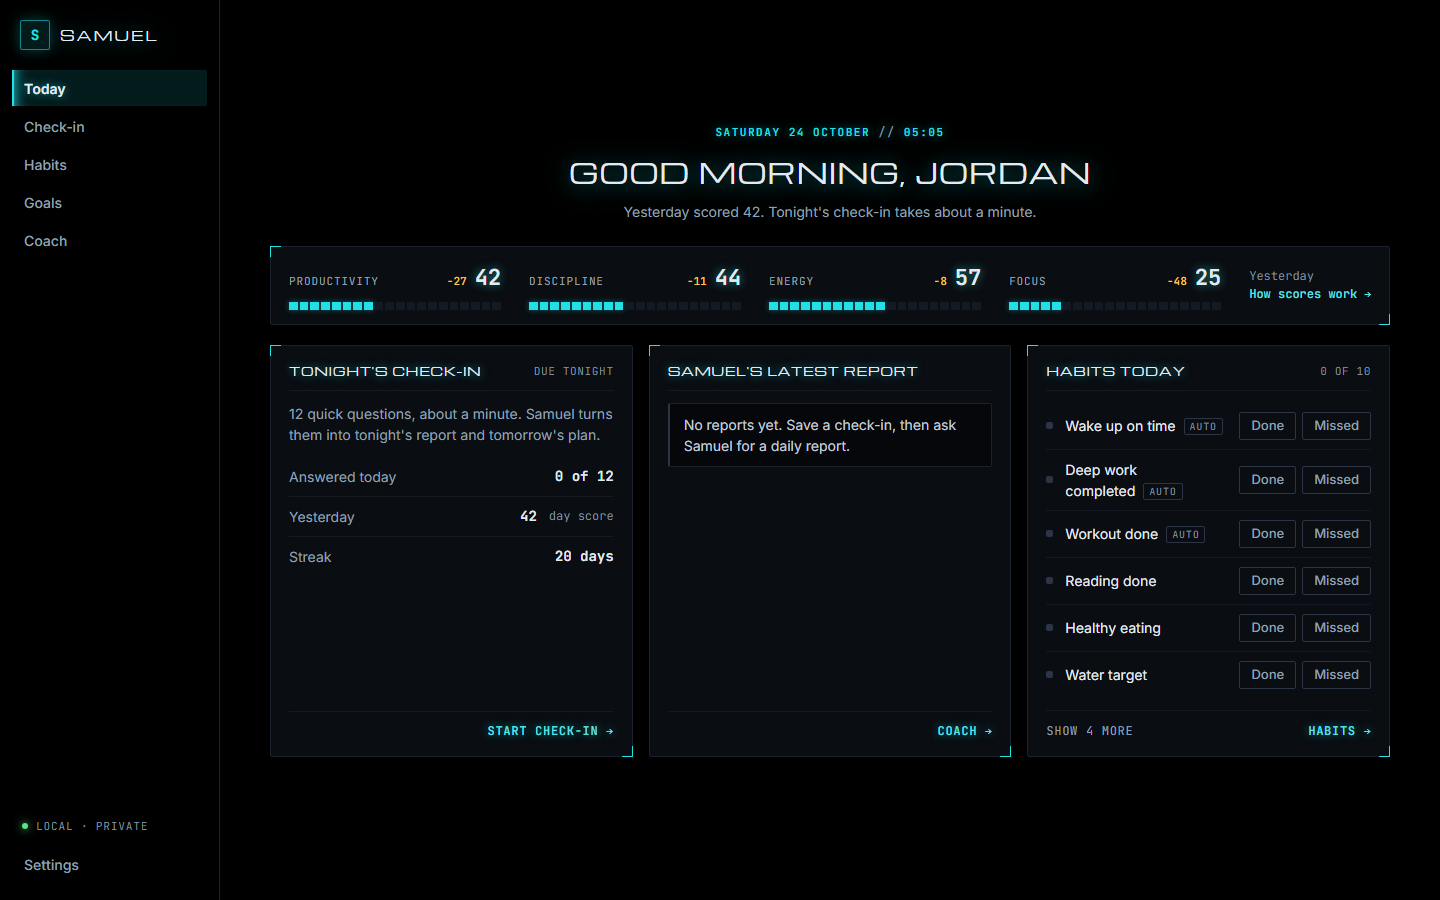
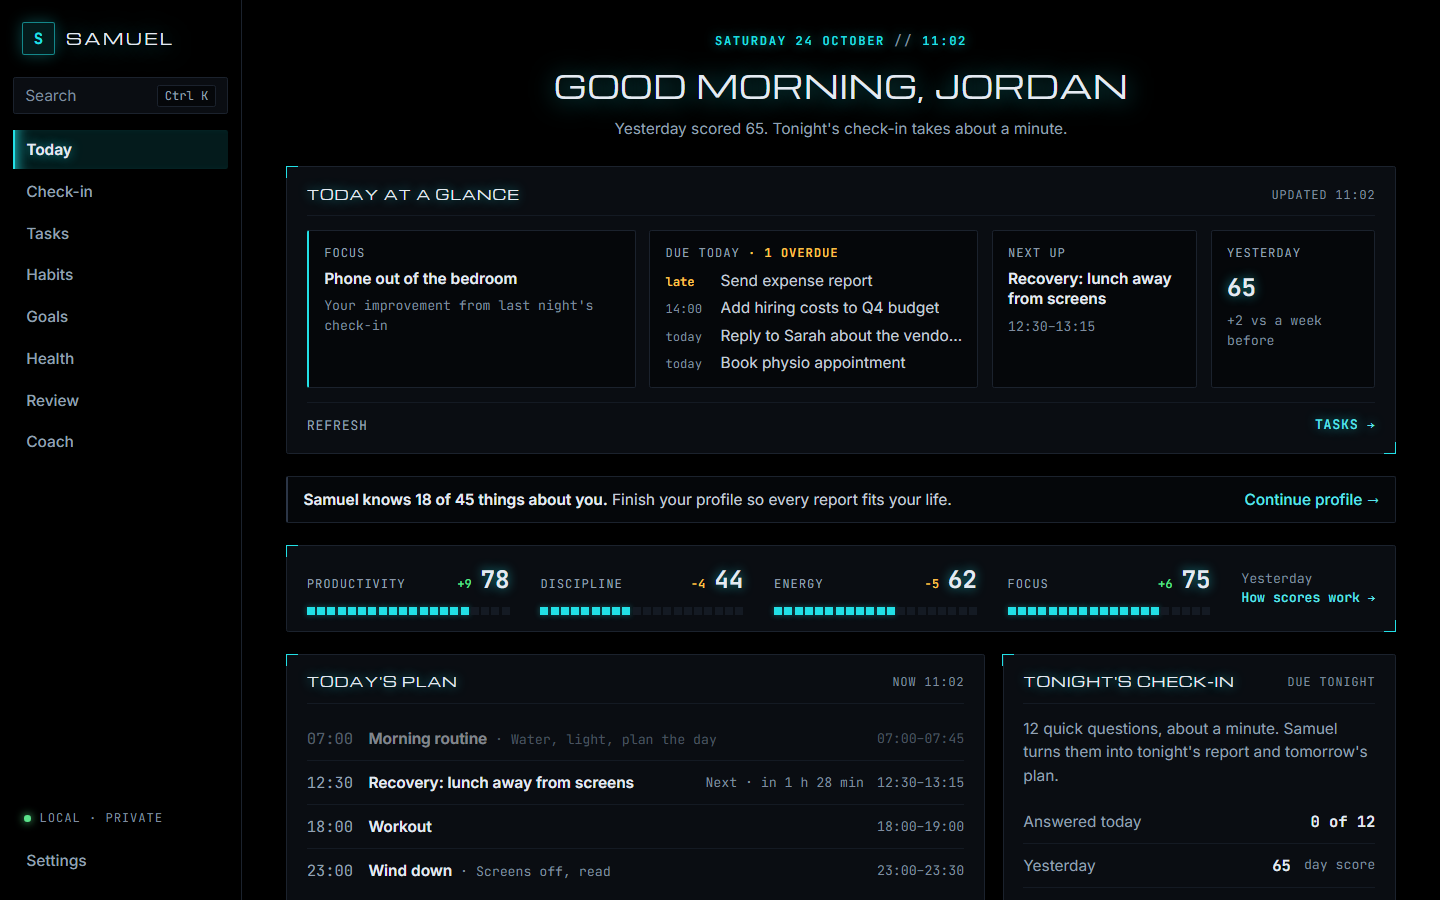
Update README for the v0.4 work and fix chat scrolling (#80)
* Scroll the chat thread, not the page

Opening a chat scrolled the whole page to the last message, shifting the
sidebar. Only the thread scrolls now.

* Update README status and screenshots for the v0.4 work

New screenshots of Home, Coach chat, Health and the weekly review, all
from the Jordan demo data on a temporary data folder.

---------

diff --git a/frontend/src/components/Chat.tsx b/frontend/src/components/Chat.tsx
@@ -171,10 +171,13 @@ export function ChatPanel({ installed, openId, onShowReports }: Props) {
 }
 
 function Thread({ chat }: { chat: Chat }) {
-  const end = useRef<HTMLDivElement>(null)
-  useEffect(() => { end.current?.scrollIntoView?.({ block: 'nearest' }) }, [chat.messages.length, chat.pending])
+  // Scroll the thread itself to the newest message, never the page.
+  const box = useRef<HTMLDivElement>(null)
+  useEffect(() => {
+    if (box.current) box.current.scrollTop = box.current.scrollHeight
+  }, [chat.messages.length, chat.pending])
   return (
-    <div className="chat-thread" aria-live="polite">
+    <div className="chat-thread" aria-live="polite" ref={box}>
       {chat.report_id != null && <div className="faint">About a report · Samuel can see it</div>}
       {chat.messages.map((m) => (
         <div key={m.id} className={`chat-msg ${m.role}`}>
@@ -183,7 +186,6 @@ function Thread({ chat }: { chat: Chat }) {
         </div>
       ))}
       {chat.pending && <Thinking />}
-      <div ref={end} />
     </div>
   )
 }

diff --git a/README.md b/README.md
@@ -6,11 +6,17 @@ Building a life dashboard using Claude Code.
 
 ## Status
 
-**v0.3.0.** Tell Samuel about your life in a 45-question profile, check in each evening, track 10 daily habits, keep a to-do list with reminders, set goals with milestones, follow today's plan from your routine, watch your sleep, energy, recovery and burnout risk, run weekly and monthly reviews, theme the app from any accent, and have Samuel (Claude Code) write your daily, weekly and monthly reports. It runs on a PC; phone access comes later. See [CHANGELOG.md](CHANGELOG.md) for what's in each release, [docs/PLAN.md](docs/PLAN.md) for the full build plan, [docs/scores.md](docs/scores.md) for how scores work, and [docs/adr/](docs/adr/) for the key decisions.
+**v0.3.0, plus the v0.4 work on `main`.** Chat with Samuel about your own data, see today at a glance, search everything with Ctrl+K, tap your energy through the day for an energy curve, find your time leaks and what moves your energy and mood, and undo deletes. Before that: tell Samuel about your life in a 45-question profile, check in each evening, track 10 daily habits, keep a to-do list with reminders, set goals with milestones, follow today's plan from your routine, watch your sleep, energy, recovery and burnout risk, run weekly and monthly reviews, theme the app from any accent, and have Samuel (Claude Code) write your daily, weekly and monthly reports. It runs on a PC; phone access comes later. See [CHANGELOG.md](CHANGELOG.md) for what's in each release, [docs/PLAN.md](docs/PLAN.md) for the full build plan, [docs/scores.md](docs/scores.md) for how scores work, and [docs/adr/](docs/adr/) for the key decisions.
 
 Screenshots use the made-up demo persona Jordan.
 
-![Home: greeting, score strip, tonight's check-in and today's habits](docs/screenshots/home.png)
+![Home: today at a glance (focus, due, next up, yesterday), the score strip and today's plan](docs/screenshots/home.png)
+
+![Coach: a chat with Samuel, answered from Jordan's own data](docs/screenshots/coach.png)
+
+![Health & energy: sleep and energy, recovery, burnout risk, what moves your energy and mood](docs/screenshots/health.png)
+
+![Weekly review: by the numbers, wins, slips and time leaks](docs/screenshots/review.png)
 
 ![Daily check-in with yesterday's summary](docs/screenshots/checkin.png)
 

diff --git a/docs/PLAN.md b/docs/PLAN.md
@@ -168,7 +168,7 @@ design/    canvas source (kept in sync)
 4. **v0.1 (core loop, released):** short onboarding, the full daily check-in, habits with auto-ticking and streaks, Home with the score strip, the Coach screen and daily reports, backups.
 5. **v0.2 (planning, released):** goals with milestones and the roadmap, the weekly review, routines for "Today's plan", and the full 45-question onboarding. Push notifications moved to the Phone milestone, since they need HTTPS on the phone.
 6. **v0.3 (released):** Health & energy, monthly evolution, tasks with reminders, and Settings → Appearance theming.
-7. **v0.4 (closing the gaps):** what the three sources have that Samuel doesn't yet, found in the review on 2026-10-24 and shaped by how the user uses the app (on and off all day):
+7. **v0.4 (closing the gaps, built on `main`, not yet released):** what the three sources have that Samuel doesn't yet, found in the review on 2026-10-24 and shaped by how the user uses the app (on and off all day):
    - **Chat with Samuel:** the prompt's coach mode as a conversation with follow-ups, on the Coach page. Each turn is a coach run that sees the conversation so far.
    - **Ctrl+K palette:** jump to any screen or action, and search goals, tasks and reports.
    - **Today digest:** a compact card at the top of Home all day: yesterday's score, today's plan, what's due and one focus.
